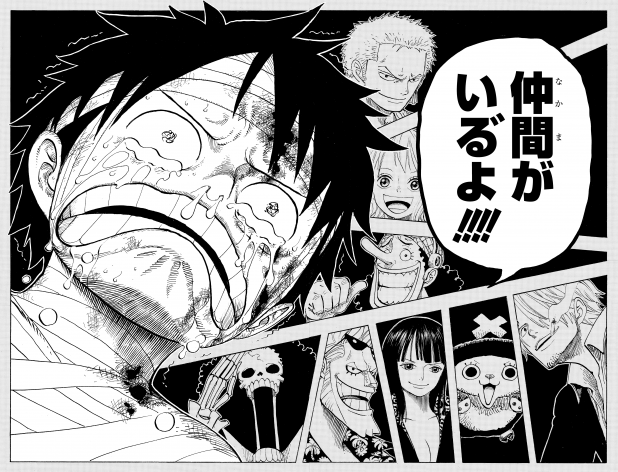
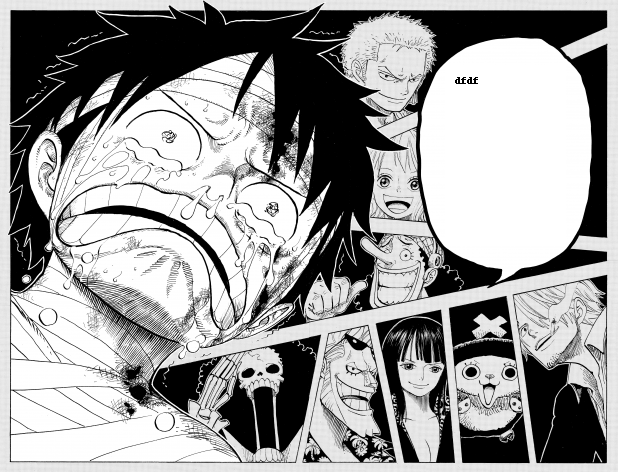
ExamplePush

Changed region(s): [[0.7379, 0.1483, 0.9223, 0.5339]]

diff --git a/files/image_processing.py b/files/image_processing.py
@@ -55,4 +55,4 @@ def process_image(top_left, bottom_right, text, path):
 
 
 
-process_image((100,100),(400,250), 'She farded on my dick', 'images\download.jpg')
+process_image((100,100),(200,250), 'Darn Couldnt finish!', 'images\download.jpg')

diff --git a/files/main.py b/files/main.py
@@ -1,13 +1,11 @@
 #main.py
 
-import web_url_grabber
-import text_detection
-import google_test
+from image_processing import process_image
 
 
 
 
-
+process_image((455,75),(555,235), 'dfdf', 'images\ONE-PIECE-618x472.png')
 
     
 
